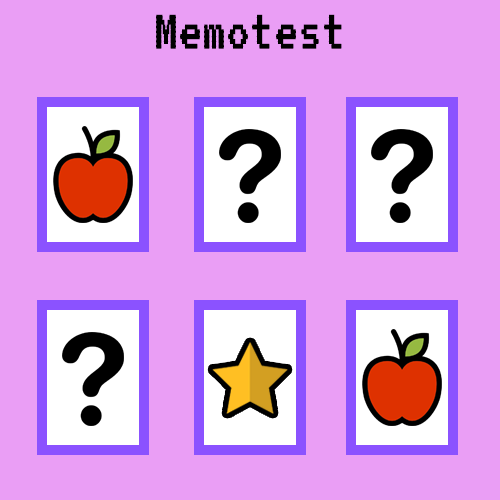
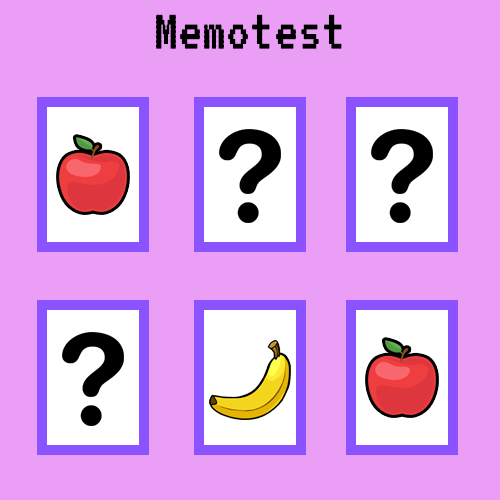
Cartitas

Changed region(s): [[0.72, 0.66, 0.9, 0.87], [0.09, 0.24, 0.27, 0.45], [0.42, 0.66, 0.6, 0.84]]

diff --git a/src/app/components/jueguitos/memotest/memotest.component.html b/src/app/components/jueguitos/memotest/memotest.component.html
@@ -1,23 +1,41 @@
 <table align="center">
     <tr>
-        <td><app-carta [srcFrente]="srcFrente"></app-carta></td>
-        <td><app-carta [srcFrente]="srcFrente"></app-carta></td>
-        <td><app-carta [srcFrente]="srcFrente"></app-carta></td>
-        <td><app-carta [srcFrente]="srcFrente"></app-carta></td>
+        <td *ngFor="let item of fila1">
+            <app-carta draggable="false" [srcFrente]="item.src"></app-carta>
+        </td>
     </tr>
     <tr>
-        <td><app-carta [srcFrente]="srcFrente"></app-carta></td>
-        <td><app-carta [srcFrente]="srcFrente"></app-carta></td>
-        <td><app-carta [srcFrente]="srcFrente"></app-carta></td>
-        <td><app-carta [srcFrente]="srcFrente"></app-carta></td>
+        <td *ngFor="let item of fila2">
+            <app-carta draggable="false" [srcFrente]="item.src"></app-carta>
+        </td>
     </tr>
     <tr>
-        <td><app-carta [srcFrente]="srcFrente"></app-carta></td>
-        <td><app-carta [srcFrente]="srcFrente"></app-carta></td>
-        <td><app-carta [srcFrente]="srcFrente"></app-carta></td>
-        <td><app-carta [srcFrente]="srcFrente"></app-carta></td>
+        <td *ngFor="let item of fila3">
+            <app-carta draggable="false" [srcFrente]="item.src"></app-carta>
+        </td>
     </tr>
 </table>
+
+<!-- <table align="center">
+    <tr>
+        <td><app-carta draggable="false" [srcFrente]="srcManzana.src"></app-carta></td>
+        <td><app-carta draggable="false" [srcFrente]="srcBanana.src"></app-carta></td>
+        <td><app-carta draggable="false" [srcFrente]="srcNaranja.src"></app-carta></td>
+        <td><app-carta draggable="false" [srcFrente]="srcPera.src"></app-carta></td>
+    </tr>
+    <tr>
+        <td><app-carta draggable="false" [srcFrente]="srcFrutilla.src"></app-carta></td>
+        <td><app-carta draggable="false" [srcFrente]="srcUva.src"></app-carta></td>
+        <td><app-carta draggable="false" [srcFrente]="srcManzana.src"></app-carta></td>
+        <td><app-carta draggable="false" [srcFrente]="srcBanana.src"></app-carta></td>
+    </tr>
+    <tr>
+        <td><app-carta draggable="false" [srcFrente]="srcNaranja.src"></app-carta></td>
+        <td><app-carta draggable="false" [srcFrente]="srcPera.src"></app-carta></td>
+        <td><app-carta draggable="false" [srcFrente]="srcFrutilla.src"></app-carta></td>
+        <td><app-carta draggable="false" [srcFrente]="srcUva.src"></app-carta></td>
+    </tr>
+</table> -->
 
 <!-- <mat-grid-list cols="4" rowHeight="14rem">
     <mat-grid-tile>

diff --git a/src/app/components/jueguitos/memotest/memotest.component.ts b/src/app/components/jueguitos/memotest/memotest.component.ts
@@ -7,11 +7,66 @@ import { Component, OnInit } from '@angular/core';
 })
 export class MemotestComponent implements OnInit {
 
-  srcFrente: string = "assets/piedra.png"
+  srcManzana = {id: 0, src: "assets/manzana.png", flipped: true};
+  srcBanana = {id: 1, src: "assets/banana.png", flipped: true};
+  srcNaranja = {id: 2, src: "assets/naranja.png", flipped: true};
+  srcPera = {id: 3, src: "assets/pera.png", flipped: true};
+  srcFrutilla = {id: 4, src: "assets/frutilla.png", flipped: true};
+  srcUva = {id: 5, src: "assets/uva.png", flipped: true};
 
-  constructor() { }
+  srcFrente = [
+    {id: 0, src: "assets/manzana.png", flipped: true},
+    {id: 1, src: "assets/banana.png", flipped: true},
+    {id: 2, src: "assets/naranja.png", flipped: true},
+    {id: 3, src: "assets/pera.png", flipped: true},
+    {id: 4, src: "assets/frutilla.png", flipped: true},
+    {id: 5, src: "assets/uva.png", flipped: true},
+    {id: 6, src: "assets/manzana.png", flipped: true},
+    {id: 7, src: "assets/banana.png", flipped: true},
+    {id: 8, src: "assets/naranja.png", flipped: true},
+    {id: 9, src: "assets/pera.png", flipped: true},
+    {id: 10, src: "assets/frutilla.png", flipped: true},
+    {id: 11, src: "assets/uva.png", flipped: true},
+  ];
+
+  fila1 = [];
+  fila2 = [];
+  fila3 = [];
+
+  constructor() {
+    this.srcFrente = this.shuffle();
+    this.llenarFilas();
+  }
 
   ngOnInit(): void {
   }
 
+  shuffle() {
+    let currentIndex = this.srcFrente.length;
+    let temporaryValue;
+    let randomIndex;
+    // While there remain elements to shuffle...
+    while (0 !== currentIndex) {
+      // Pick a remaining element...
+      randomIndex = Math.floor(Math.random() * currentIndex);
+      currentIndex -= 1;
+      // And swap it with the current element.
+      temporaryValue = this.srcFrente[currentIndex];
+      this.srcFrente[currentIndex] = this.srcFrente[randomIndex];
+      this.srcFrente[randomIndex] = temporaryValue;
+    }
+    return this.srcFrente;
+  }
+
+  llenarFilas(){
+    for(let i=0; i<4; i++){
+      this.fila1.push(this.srcFrente[i]);
+    }
+    for(let i=4; i<8; i++){
+      this.fila2.push(this.srcFrente[i]);
+    }
+    for(let i=8; i<12; i++){
+      this.fila3.push(this.srcFrente[i]);
+    }
+  }
 }

diff --git a/src/app/components/carta/carta.component.scss b/src/app/components/carta/carta.component.scss
@@ -9,6 +9,11 @@
     position: relative;
     transform-style: preserve-3d;
     transition: transform 1s;
+    box-sizing: border-box;
+    -moz-box-sizing: border-box;
+    -webkit-box-sizing: border-box;
+    background: white;
+    border: 12px solid rgb(165, 69, 255);
 }
 
 .flippable-card div {
@@ -25,14 +30,12 @@
     display: flex;
     align-items: center;
     justify-content: center;
-    background: #ffa459;
 }
 
 .flippable-card .back {
     display: flex;
     align-items: center;
     justify-content: center;
-    background: #69b7ff;
     transform: rotateY( 180deg );
 }
 
@@ -41,6 +44,14 @@
 }
 
 img{
-    width: 100%;
-    height: 100%;
+    width: 80%;
+    height: 70%;
+}
+
+.disable-selection {
+    -moz-user-select: none; /* Firefox */
+    -ms-user-select: none; /* Internet Explorer */
+    -khtml-user-select: none; /* KHTML browsers (e.g. Konqueror) */
+    -webkit-user-select: none; /* Chrome, Safari, and Opera */
+    -webkit-touch-callout: none; /* Disable Android and iOS callouts*/
 }

diff --git a/src/app/components/carta/carta.component.html b/src/app/components/carta/carta.component.html
@@ -1,10 +1,10 @@
 <div class='card-container'>
     <div class='flippable-card' [ngClass]="{'flipped' : flipped}" (click)='voltearCarta()'>
       <div class='front'>
-        <img draggable="false" [src] = "srcFrente">
+        <img class="disable-selection" draggable="false" [src] = "srcFrente">
       </div>
       <div class='back'>
-        <img draggable="false" [src] = "srcReverso">
+        <img class="disable-selection" draggable="false" [src] = "srcReverso">
       </div>
     </div>
   </div>

diff --git a/src/app/components/carta/carta.component.ts b/src/app/components/carta/carta.component.ts
@@ -8,7 +8,7 @@ import { Component, OnInit, Input } from '@angular/core';
 export class CartaComponent implements OnInit {
 
   flipped: boolean = true;
-  srcReverso: string = "assets/memotest.png";
+  srcReverso: string = "assets/interrogacion.png";
   @Input() srcFrente: string;
 
   constructor() { }
